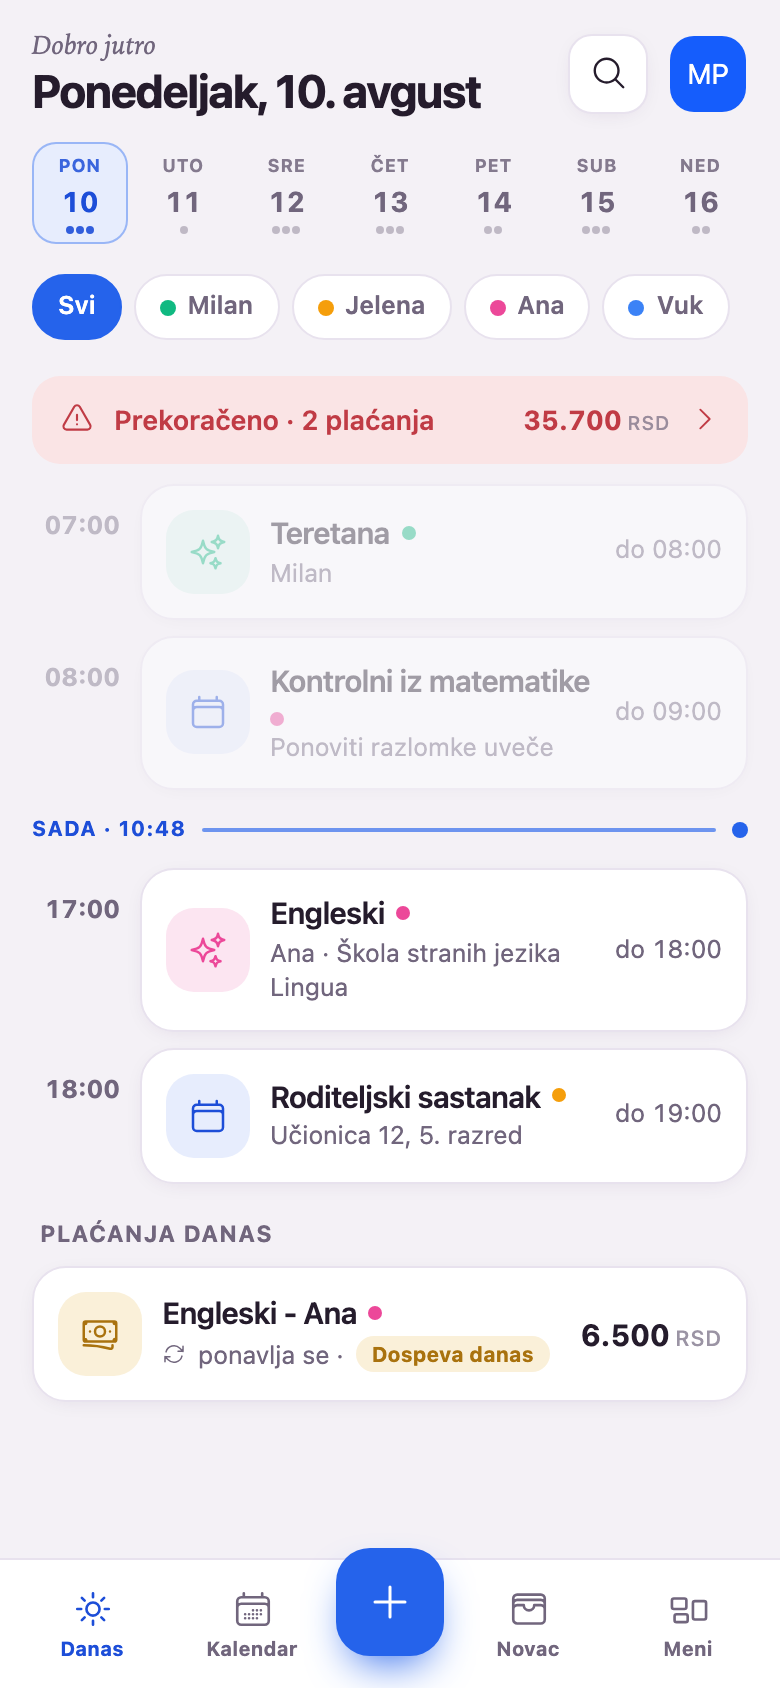
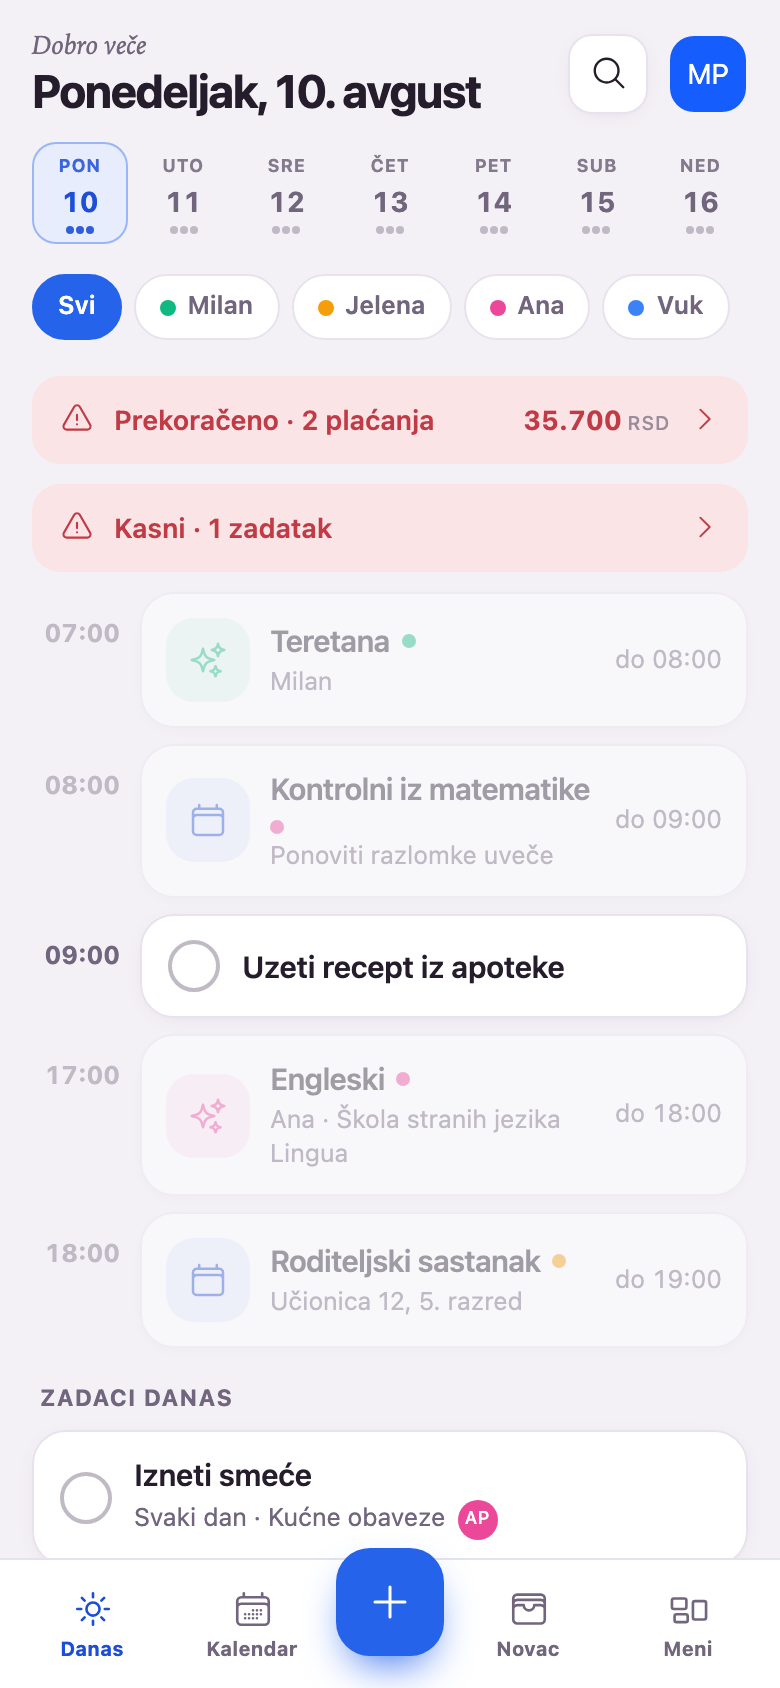
One completion circle everywhere, and screenshots of both apps
Browser verification turned up two things the tests could not see. A task
inside a list still carried the old square checkbox while the same task on the
agenda and in the kid shell carried a circle - two controls for one concept, on
rows holding the very same row of the very same table. There is now one
TaskCheckCircle and all three surfaces use it.

The list sub-line also ran to four segments and truncated mid-word on a 390px
phone. "N sa datumom" is the segment that went: inside a list the date chips on
the rows already say it, and the grid card on the index still says it where it
helps you choose a list.

The login tagline advertised liste; it says zadaci now.

Screenshots recaptured for both the parent and the kid app against a freshly
seeded demo family, with the harness asserting each screen actually rendered
its content rather than trusting a timeout - which is how it caught that it had
been screenshotting a detail sheet while calling it a list.

diff --git a/src/components/tasks/TaskRow.tsx b/src/components/tasks/TaskRow.tsx
@@ -1,5 +1,3 @@
-import { CheckIcon } from "@heroicons/react/24/outline";
-
 import {
   ItemCard,
   ItemMain,
@@ -10,6 +8,7 @@ import {
 } from "@/components/common/ItemCard";
 import { MemberBadges } from "@/components/common/MemberBadges";
 import { Pill } from "@/components/common/Pill";
+import { TaskCheckCircle } from "@/components/tasks/TaskCheckCircle";
 import { cn } from "@/lib/cn";
 import type { AgendaItem } from "@/hooks/useAgenda";
 import { useProfile } from "@/hooks/useProfile";
@@ -27,7 +26,7 @@ import { isTaskDoneOn, taskRecurrenceLabel } from "@/utils/task";
  * redundant anyway - the circle already says "this is something to finish".
  *
  * The circle is a `<label>`-wrapped checkbox rendered as `ItemCard`'s `leading`
- * SIBLING of the row button, the same markup `ListItemRow` has always used: a
+ * SIBLING of the row button, the same markup `TaskListRow` has always used: a
  * control nested inside a button is invalid HTML and the browser swallows its
  * clicks. So the two taps never collide - the circle completes without
  * navigating, the row body opens `TaskDetailSheet`.
@@ -78,7 +77,7 @@ export function TaskRow({
       dimmed={done}
       ariaLabel={`Otvori detalje za „${task.name}"`}
       leading={
-        <TaskCircle
+        <TaskCheckCircle
           done={done}
           name={task.name}
           onToggle={() => {
@@ -111,48 +110,6 @@ export function TaskRow({
         </ItemSide>
       ) : null}
     </ItemCard>
-  );
-}
-
-/**
- * The completion circle: a visually-hidden checkbox inside a generously padded
- * `<label>`, so the whole 47x48 area at the head of the row is the tap target
- * (the trick `ListItemRow` uses for the same reason) while the keyboard still
- * gets a real checkbox with a focus ring on the drawn circle.
- *
- * No pending state on purpose - `useToggleTask` is optimistic in both of its
- * shapes, so the circle has already flipped by the time a spinner could appear
- * and a spinner would only fight it.
- */
-function TaskCircle({
-  done,
-  name,
-  onToggle,
-}: {
-  done: boolean;
-  name: string;
-  onToggle: () => void;
-}) {
-  return (
-    <label
-      className="group/tick flex shrink-0 cursor-pointer items-center self-stretch py-3 pl-[13px] pr-[11px]"
-      // Says what the tap DOES; the row button beside it says what the task is.
-      aria-label={done ? `Vrati „${name}" u aktivne` : `Označi „${name}" kao završeno`}
-    >
-      <input type="checkbox" checked={done} onChange={onToggle} className="peer sr-only" />
-      <span
-        aria-hidden="true"
-        className={cn(
-          "grid size-[26px] place-items-center rounded-full border-2 transition-colors",
-          "peer-focus-visible:ring-2 peer-focus-visible:ring-ring peer-focus-visible:ring-offset-2 peer-focus-visible:ring-offset-card",
-          done
-            ? "border-task bg-task text-card"
-            : "border-muted-foreground/45 text-transparent group-hover/tick:border-task",
-        )}
-      >
-        <CheckIcon className="size-4" strokeWidth={3} />
-      </span>
-    </label>
   );
 }
 

diff --git a/src/components/tasks/TaskCheckCircle.tsx b/src/components/tasks/TaskCheckCircle.tsx
@@ -1,0 +1,71 @@
+import { CheckIcon } from "@heroicons/react/24/outline";
+
+import { cn } from "@/lib/cn";
+
+/**
+ * The completion circle - the one control that finishes a task, wherever the task
+ * is drawn.
+ *
+ * It lives in its own file because a task now appears on four surfaces (the
+ * agenda row, a list, a smart list, the kid shell) and giving any of them its own
+ * control is how a square checkbox on one screen ends up meaning the same thing
+ * as a circle on the next. One definition, one shape, one aria label.
+ *
+ * A visually-hidden checkbox inside a generously padded `<label>` makes the whole
+ * padded area the tap target while the keyboard still gets a real checkbox, with
+ * the focus ring drawn on the circle. The label is always a SIBLING of the row's
+ * own button, never a child: nesting one interactive element in another is
+ * invalid markup and the outer one swallows the inner one's clicks.
+ *
+ * No pending state on purpose - `useToggleTask` is optimistic in both of its
+ * shapes, so the circle has already flipped by the time a spinner could appear,
+ * and the spinner would only fight it.
+ */
+export function TaskCheckCircle({
+  done,
+  name,
+  onToggle,
+  /** Tighter padding for the denser rows inside a list. */
+  dense = false,
+  disabled = false,
+}: {
+  done: boolean;
+  /** Only for the aria label - the visible name lives in the row beside this. */
+  name: string;
+  onToggle: () => void;
+  dense?: boolean;
+  disabled?: boolean;
+}) {
+  return (
+    <label
+      className={cn(
+        "group/tick flex shrink-0 items-center self-stretch",
+        dense
+          ? "py-3 pl-3 pr-3.5 pointer-fine:py-1.5 pointer-fine:pl-2"
+          : "py-3 pl-[13px] pr-[11px]",
+        disabled ? "cursor-default" : "cursor-pointer",
+      )}
+      // Says what the tap DOES; the row beside it says what the task is.
+      aria-label={done ? `Vrati „${name}" u aktivne` : `Označi „${name}" kao završeno`}
+    >
+      <input
+        type="checkbox"
+        checked={done}
+        disabled={disabled}
+        onChange={onToggle}
+        className="peer sr-only"
+      />
+      <span
+        aria-hidden="true"
+        className={cn(
+          "grid size-[26px] place-items-center rounded-full border-2 transition-colors",
+          "peer-focus-visible:ring-2 peer-focus-visible:ring-ring peer-focus-visible:ring-offset-2 peer-focus-visible:ring-offset-card",
+          done ? "border-task bg-task text-card" : "border-muted-foreground/45 text-transparent",
+          !done && !disabled && "group-hover/tick:border-task",
+        )}
+      >
+        <CheckIcon className="size-4" strokeWidth={3} />
+      </span>
+    </label>
+  );
+}

diff --git a/src/components/tasks/TaskListRow.tsx b/src/components/tasks/TaskListRow.tsx
@@ -7,6 +7,7 @@ import { Linkify } from "@/components/common/Linkify";
 import { MemberBadges } from "@/components/common/MemberBadges";
 import { previewLine } from "@/components/common/MarkdownText";
 import { Pill } from "@/components/common/Pill";
+import { TaskCheckCircle } from "@/components/tasks/TaskCheckCircle";
 import { cn } from "@/lib/cn";
 import type { Task } from "@/types/database";
 
@@ -101,17 +102,10 @@ export function TaskListRow({
 
   return (
     <div className="group flex items-stretch rounded-md bg-card transition-colors hover:bg-muted/60">
-      <label
-        className="flex shrink-0 cursor-pointer items-center py-3 pl-3 pr-4 pointer-fine:py-1.5 pointer-fine:pl-2 pointer-fine:pr-2"
-        aria-label={done ? `Vrati „${item.name}" u aktivne` : `Označi „${item.name}" kao završeno`}
-      >
-        <input
-          type="checkbox"
-          checked={done}
-          onChange={() => onToggle(item)}
-          className="h-5 w-5 shrink-0 cursor-pointer rounded-sm border-border bg-card text-accent focus:ring-ring"
-        />
-      </label>
+      {/* The SAME circle the agenda row and the kid card use. A square checkbox
+          here and a circle there would be two controls for one concept, on rows
+          that hold the very same task. */}
+      <TaskCheckCircle done={done} name={item.name} onToggle={() => onToggle(item)} dense />
       {/* Hit-target scoping: the wrapper owns the flex-1 stretch (with inert
           right padding) while the button shrinks to text width so only the
           visible label area is a tap target. `items-stretch` lets the button

diff --git a/src/routes/_app.tasks.$listId.tsx b/src/routes/_app.tasks.$listId.tsx
@@ -306,15 +306,21 @@ function ListDetailLoaded({
   );
 }
 
-/** "porodična · 4 aktivna · 2 sa datumom · 1 kasni" - the sub-line under the title. */
+/**
+ * "porodična · 4 aktivna · 1 kasni" - the sub-line under the title.
+ *
+ * Three segments at most, because four did not fit a 390px phone and the line
+ * truncated mid-word. The one that went is "N sa datumom": inside a list you can
+ * already see which rows carry a date chip, and the grid card on the index still
+ * says it there, where it helps you pick a list. Scope and "kasni" have no other
+ * home on this screen, so they stay.
+ */
 function listSubtitle(list: ListWithTasks, today: string): string {
   const active = list.tasks.filter((task) => !task.is_completed);
-  const dated = active.filter((task) => task.due_date !== null).length;
   const late = active.filter((task) => isTaskOverdue(task, today)).length;
   return [
     list.scope === "family" ? "porodična" : "lična",
     `${active.length} ${active.length === 1 ? "aktivan" : "aktivnih"}`,
-    dated > 0 ? `${dated} sa datumom` : null,
     late > 0 ? `${late} kasni` : null,
   ]
     .filter(Boolean)

diff --git a/src/components/kid/KidUi.tsx b/src/components/kid/KidUi.tsx
@@ -195,7 +195,7 @@ export function KidCheckCircle({
  * A card with TWO controls: the tick circle and the body that opens the details.
  *
  * They are SIBLINGS, never nested. A button inside a button is invalid markup
- * and the inner one swallows the outer's taps - the same reason `ListItemRow`
+ * and the inner one swallows the outer's taps - the same reason `TaskListRow`
  * keeps its checkbox label beside the row body in the grown-up app. The body
  * carries the padding so it fills the card's full height and reaches its right
  * edge: everything except the circle opens the sheet, wherever the thumb lands.

diff --git a/src/routes/login.tsx b/src/routes/login.tsx
@@ -56,7 +56,7 @@ function LoginPage() {
           Porodični asistent
         </h1>
         <p className="mt-1 text-sm font-normal text-muted-foreground">
-          Kalendar, plaćanja, budžet i liste -<br />
+          Kalendar, plaćanja, budžet i zadaci -<br />
           sve što porodica deli, na jednom mestu.
         </p>
 

diff --git a/README.md b/README.md
@@ -13,8 +13,8 @@ The interface is in Serbian, with push reminders and realtime sync between famil
 |                    Today                     |                        Week                         |                      Month                      |
 | :------------------------------------------: | :-------------------------------------------------: | :---------------------------------------------: |
 |     ![Today](docs/screenshots/danas.png)     |   ![Week](docs/screenshots/kalendar-nedelja.png)    |  ![Month](docs/screenshots/kalendar-mesec.png)  |
-|                  **Budget**                  |                    **Payments**                     |                    **Lists**                    |
-|    ![Budget](docs/screenshots/budzet.png)    |     ![Payments](docs/screenshots/placanja.png)      |      ![Lists](docs/screenshots/liste.png)       |
+|                  **Budget**                  |                    **Payments**                     |                    **Tasks**                    |
+|    ![Budget](docs/screenshots/budzet.png)    |     ![Payments](docs/screenshots/placanja.png)      |      ![Tasks](docs/screenshots/zadaci.png)      |
 |                  **School**                  |                      **Menu**                       |                **Global search**                |
 |    ![School](docs/screenshots/skola.png)     |         ![Menu](docs/screenshots/meni.png)          | ![Global search](docs/screenshots/pretraga.png) |
 |                 **Kid mode**                 |                  **Kid schedule**                   |                 **Dark theme**                  |
